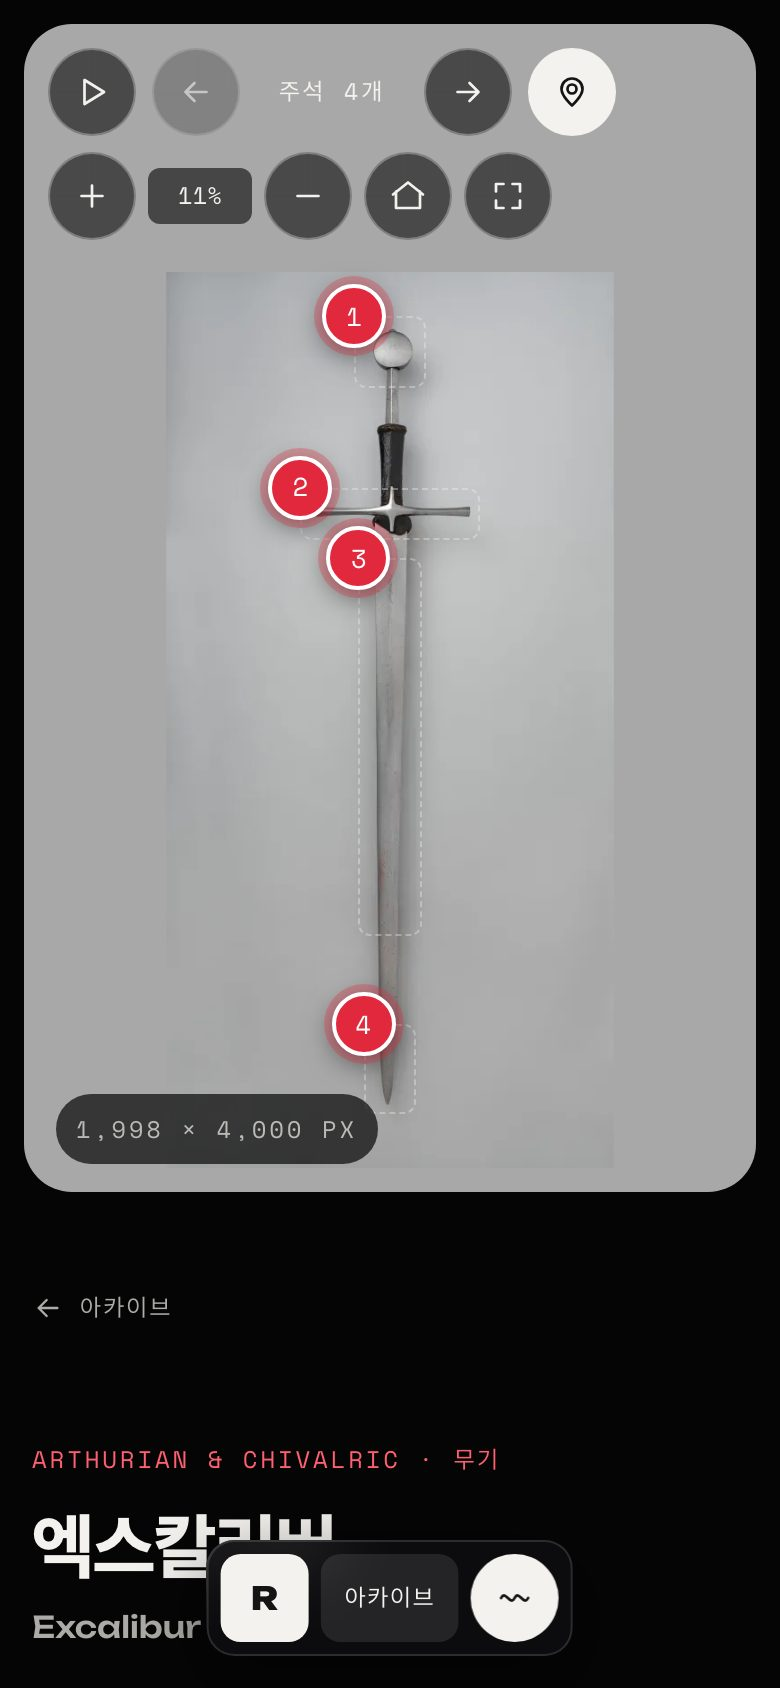
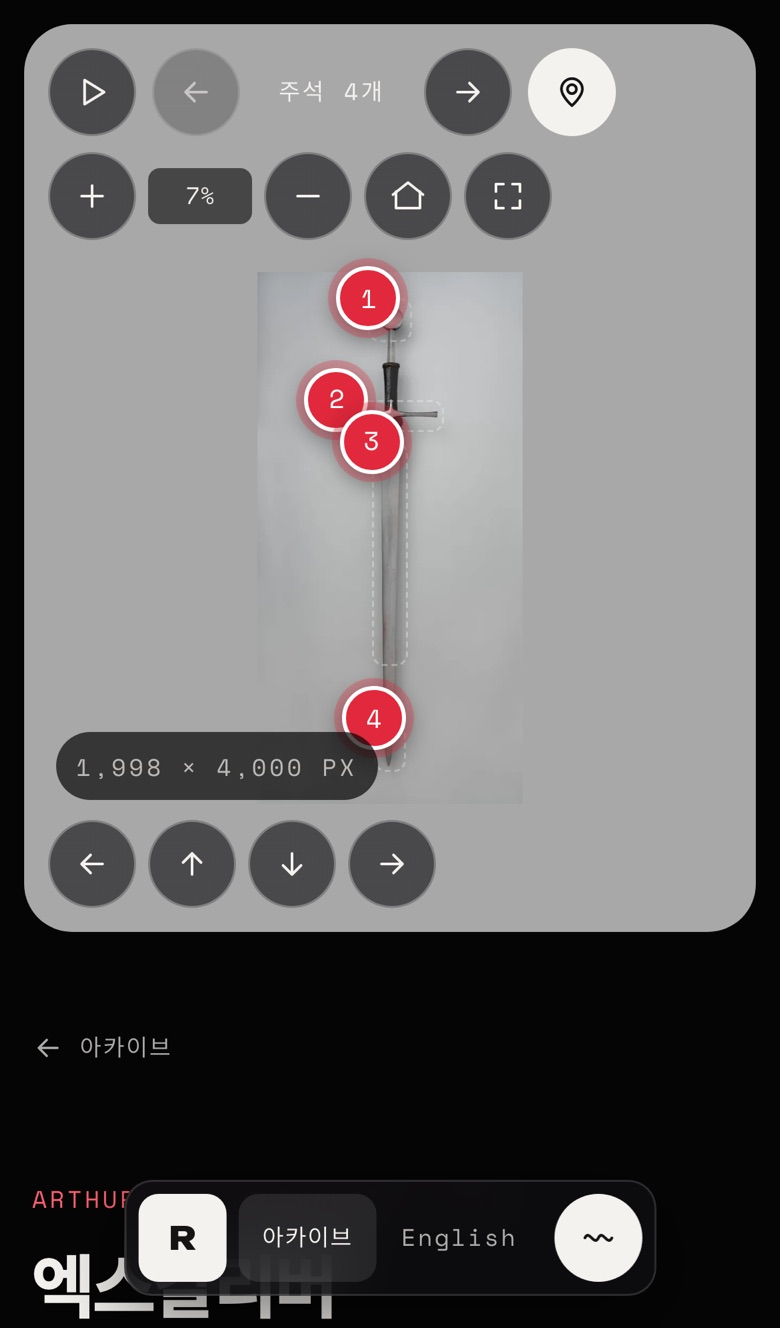
README 화면: 전승 지도와 영어판 추가, 뷰어 화면을 이동 버튼이 보이게 갱신 (#11)

diff --git a/README.md b/README.md
@@ -22,11 +22,15 @@
 
 | 딥줌 뷰어와 주석                                                                                           | 합성 이미지(천부인)                                                                              |
 | ---------------------------------------------------------------------------------------------------------- | ------------------------------------------------------------------------------------------------ |
-| ![성배 사진의 포도 덩굴 부분으로 확대하고 오른쪽에 해설을 보여 주는 유물 화면](docs/images/web-viewer.jpg) | ![검·거울·방울 사진 세 장을 이은 10199px 합성 이미지와 주석 번호](docs/images/web-composite.jpg) |
+| ![성배 사진의 포도 덩굴 부분으로 확대하고 오른쪽에 해설을 보여 주는 유물 화면, 왼쪽 아래 이동 버튼](docs/images/web-viewer.jpg) | ![검·거울·방울 사진 세 장을 이은 10199px 합성 이미지와 주석 번호](docs/images/web-composite.jpg) |
+
+| 전승 지도 | 영어판 |
+|---|---|
+| ![어두운 점 지도 위에 켈트·그리스·중국 등 열 개 전시실의 이름과 유물 수가 놓인 전승 지도](docs/images/web-map.jpg) | ![엑스칼리버의 십자형 코등이 주석으로 확대하고 오른쪽에 영어 해설을 보여 주는 영어판 유물 화면](docs/images/web-english.jpg) |
 
 | 아카이브 검색                                                                                              | 입장 화면                                                          | 모바일                                                                                             |
 | ---------------------------------------------------------------------------------------------------------- | ------------------------------------------------------------------ | -------------------------------------------------------------------------------------------------- |
-| ![북유럽·게르만 신화 전시실로 거른 유물 18점의 카드 목록과 열 개 전시실 필터](docs/images/web-archive.jpg) | ![RIZER와 ARCHIVE 사이의 붉은 입장 버튼](docs/images/web-gate.jpg) | <img src="docs/images/web-mobile.jpg" alt="모바일의 엑스칼리버 딥줌 뷰어와 주석 번호" width="220"> |
+| ![북유럽·게르만 신화 전시실로 거른 유물 18점의 카드 목록과 열 개 전시실 필터](docs/images/web-archive.jpg) | ![RIZER와 ARCHIVE 사이의 붉은 입장 버튼](docs/images/web-gate.jpg) | <img src="docs/images/web-mobile.jpg" alt="모바일의 엑스칼리버 딥줌 뷰어와 주석 번호, 아래쪽 이동 버튼" width="220"> |
 
 ### 관리 화면
 
